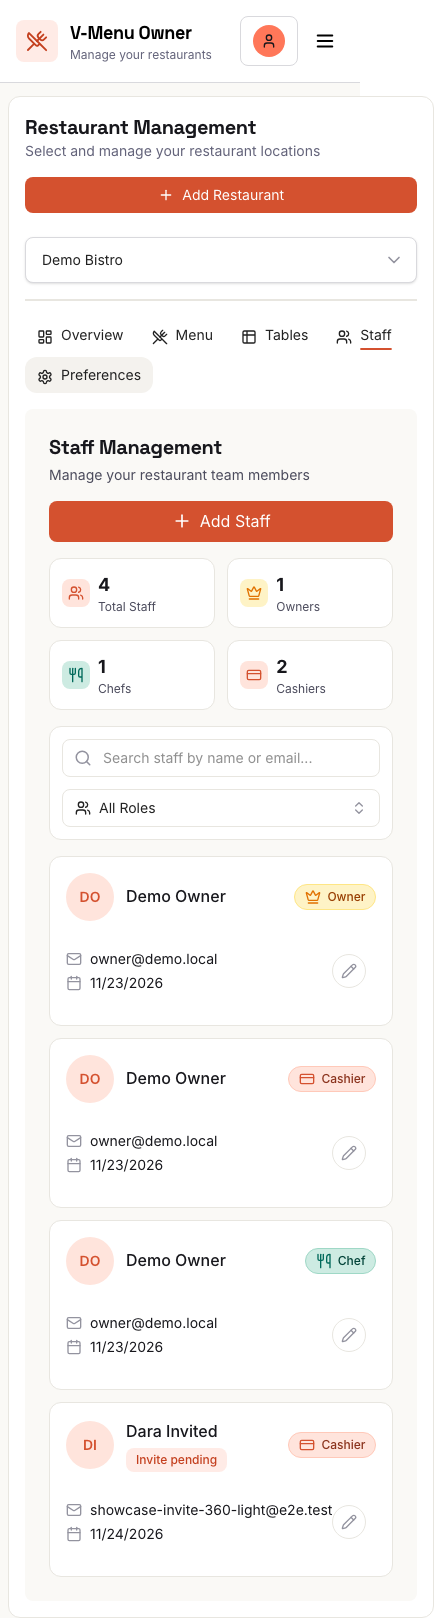
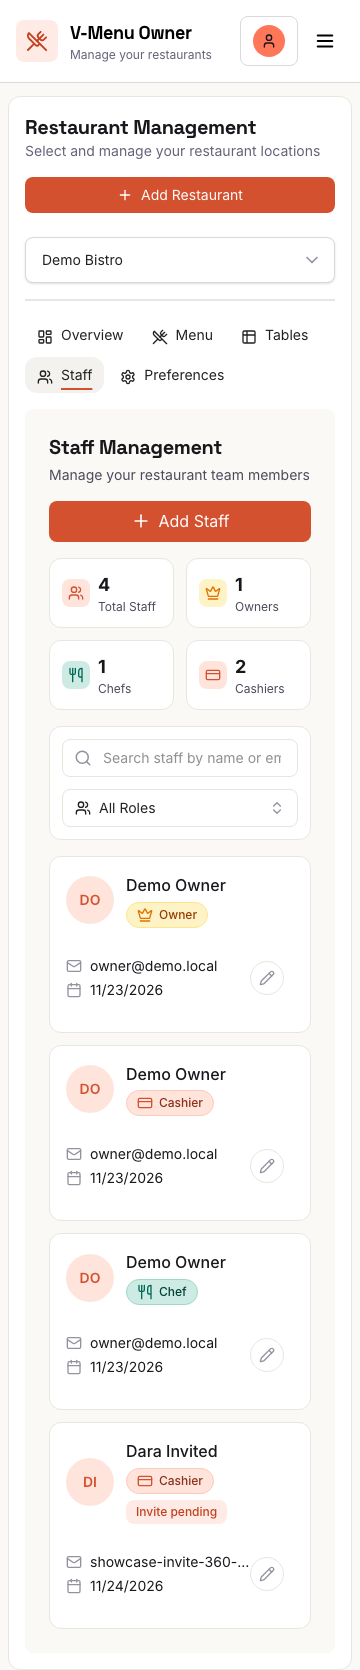
fix: VM-12 staff cards fit a 360 px phone: long emails truncate and badges wrap

diff --git a/frontend/src/features/staff/components/AllStaff.tsx b/frontend/src/features/staff/components/AllStaff.tsx
@@ -400,7 +400,7 @@ export default function AllStaff() {
                                         className="bg-gray-50 rounded-xl border border-gray-100 p-4"
                                     >
                                         <div className="flex items-center gap-3 mb-3">
-                                            <div className="w-12 h-12 bg-blue-100 rounded-full flex items-center justify-center">
+                                            <div className="w-12 h-12 shrink-0 bg-blue-100 rounded-full flex items-center justify-center">
                                                 <span className="text-blue-600 font-semibold text-sm">
                                                     {member.name
                                                         .split(" ")
@@ -410,15 +410,13 @@ export default function AllStaff() {
                                                 </span>
                                             </div>
                                             <div className="flex-1 min-w-0">
-                                                <div className="flex items-center justify-between gap-2 h-full">
-                                                    <div className="flex flex-col items-start gap-1 min-w-0">
-                                                        <p className="font-medium text-gray-900 truncate">{member.name}</p>
-                                                        <InvitePending member={member} />
-                                                    </div>
+                                                <p className="font-medium text-gray-900 truncate">{member.name}</p>
+                                                <div className="mt-1 flex flex-wrap items-center gap-1.5">
                                                     <span className={getRoleBadge(member.role)}>
                                                         {getRoleIcon(member.role)}
                                                         {member.role.charAt(0).toUpperCase() + member.role.slice(1)}
                                                     </span>
+                                                    <InvitePending member={member} />
                                                 </div>
                                             </div>
                                         </div>

diff --git a/frontend/src/features/staff/components/Staff.tsx b/frontend/src/features/staff/components/Staff.tsx
@@ -439,7 +439,7 @@ export default function Staff() {
                         filteredStaff.map((member) => (
                             <div key={member._id} data-member={member._id} className="bg-white rounded-xl border border-gray-200 p-4">
                                 <div className="flex items-center gap-3 mb-3">
-                                    <div className="w-12 h-12 bg-blue-100 rounded-full flex items-center justify-center">
+                                    <div className="w-12 h-12 shrink-0 bg-blue-100 rounded-full flex items-center justify-center">
                                         <span className="text-blue-600 font-semibold text-sm">
                                             {member.name
                                                 .split(" ")
@@ -449,15 +449,13 @@ export default function Staff() {
                                         </span>
                                     </div>
                                     <div className="flex-1 min-w-0">
-                                        <div className="flex items-center justify-between gap-2 h-full">
-                                            <div className="flex flex-col items-start gap-1 min-w-0">
-                                                <p className="font-medium text-gray-900 truncate">{member.name}</p>
-                                                <InvitePending member={member} />
-                                            </div>
+                                        <p className="font-medium text-gray-900 truncate">{member.name}</p>
+                                        <div className="mt-1 flex flex-wrap items-center gap-1.5">
                                             <span className={getRoleBadge(member.role)}>
                                                 {getRoleIcon(member.role)}
                                                 {member.role.charAt(0).toUpperCase() + member.role.slice(1)}
                                             </span>
+                                            <InvitePending member={member} />
                                         </div>
                                     </div>
                                 </div>

diff --git a/frontend/src/features/owner/components/OwnerDashboard.tsx b/frontend/src/features/owner/components/OwnerDashboard.tsx
@@ -333,7 +333,7 @@ const OwnerDashboard = () => {
                     {sidebarContent}
                 </div>
 
-                <div className="flex-1 pt-24 lg:pt-26 pr-2 lg:pr-4 pl-2 lg:pl-76">{renderContent()}</div>
+                <div className="flex-1 min-w-0 pt-24 lg:pt-26 pr-2 lg:pr-4 pl-2 lg:pl-76">{renderContent()}</div>
             </div>
             {showAddRes && <AddRestaurantPopup onClose={() => setShowAddRes(false)} onSave={handleAddRestaurant} />}
         </div>
